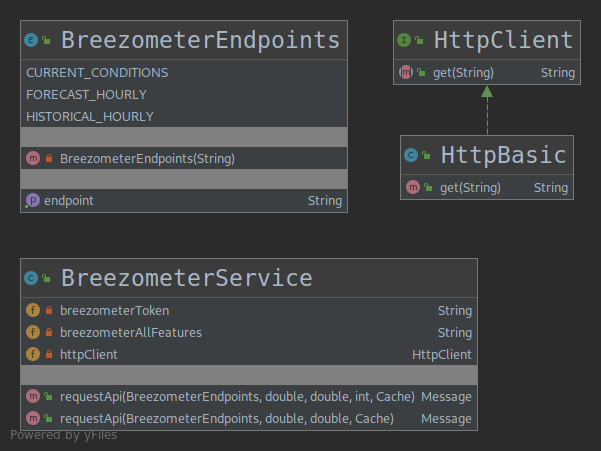
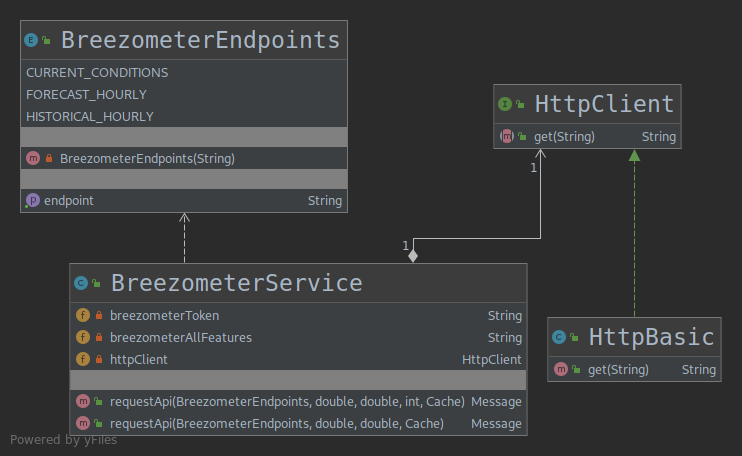
services diagram fixed

diff --git a/report/sections/product_specifications.tex b/report/sections/product_specifications.tex
@@ -110,8 +110,7 @@ De forma a poder fazer a "tradução" entre os dados recebidos do serviço exter
 
 
 \subsection{Package service}
-De maneira a obter os dados necessários sobre a qualidade do ar, foi necessário criar um elo de ligação entre o \textit{back-end} criado e o serviço externo usado (\textit{BreezoMeter}), pelo que neste \textit{package} se encontram as classes que o permitem fazer. Quando a \textit{API} recebe um determinado pedido (excluindo o das estatísticas da cache), o método da classe \textbf{\textit{ConditionsController}} responsável por tratar do pedido "chama" o método \textit{requestApi} da classe \textbf{\textit{ConditionsController}} deste \textit{package} com o respetivo pedido, sendo que esta ultima faz um pedido ao serviço externo usando a classe \textbf{\textit{HttpBasic}} (disponibilizada pelo professor da disciplina numa das aulas práticas). A resposta do serviço externo é de seguida processada pelos \textit{deserializers} já descritos anteriormente e o objeto ou lista de objetos da classe \textbf{\textit{AirQuality}} são retornados ao método do \textit{controller} que tinha feito o pedido, encapsulados sob a forma dum objeto da classe \textbf{\textit{Message}}.
-Na figura \ref{fig:service_diagram} é possível encontrar a estrutura interna das classes deste \textit{package}.
+De maneira a obter os dados necessários sobre a qualidade do ar, foi necessário criar um elo de ligação entre o \textit{back-end} criado e o serviço externo usado (\textit{BreezoMeter}), pelo que neste \textit{package} se encontram as classes que o permitem fazer. Quando a \textit{API} recebe um determinado pedido (excluindo o das estatísticas da cache), o método da classe \textbf{\textit{ConditionsController}} responsável por tratar do pedido "chama" o método \textit{requestApi} da classe \textbf{\textit{ConditionsController}} deste \textit{package} com o respetivo pedido, sendo que esta ultima faz um pedido ao serviço externo usando a classe \textbf{\textit{HttpBasic}} (disponibilizada pelo professor da disciplina numa das aulas práticas). A resposta do serviço externo é de seguida processada pelos \textit{deserializers} já descritos anteriormente e o objeto ou lista de objetos da classe \textbf{\textit{AirQuality}} são retornados ao método do \textit{controller} que tinha feito o pedido, encapsulados sob a forma dum objeto da classe \textbf{\textit{Message}}. Na figura \ref{fig:service_diagram} é possível encontrar a estrutura interna das classes deste \textit{package}.
 
 \begin{figure}[h]
    \centering
